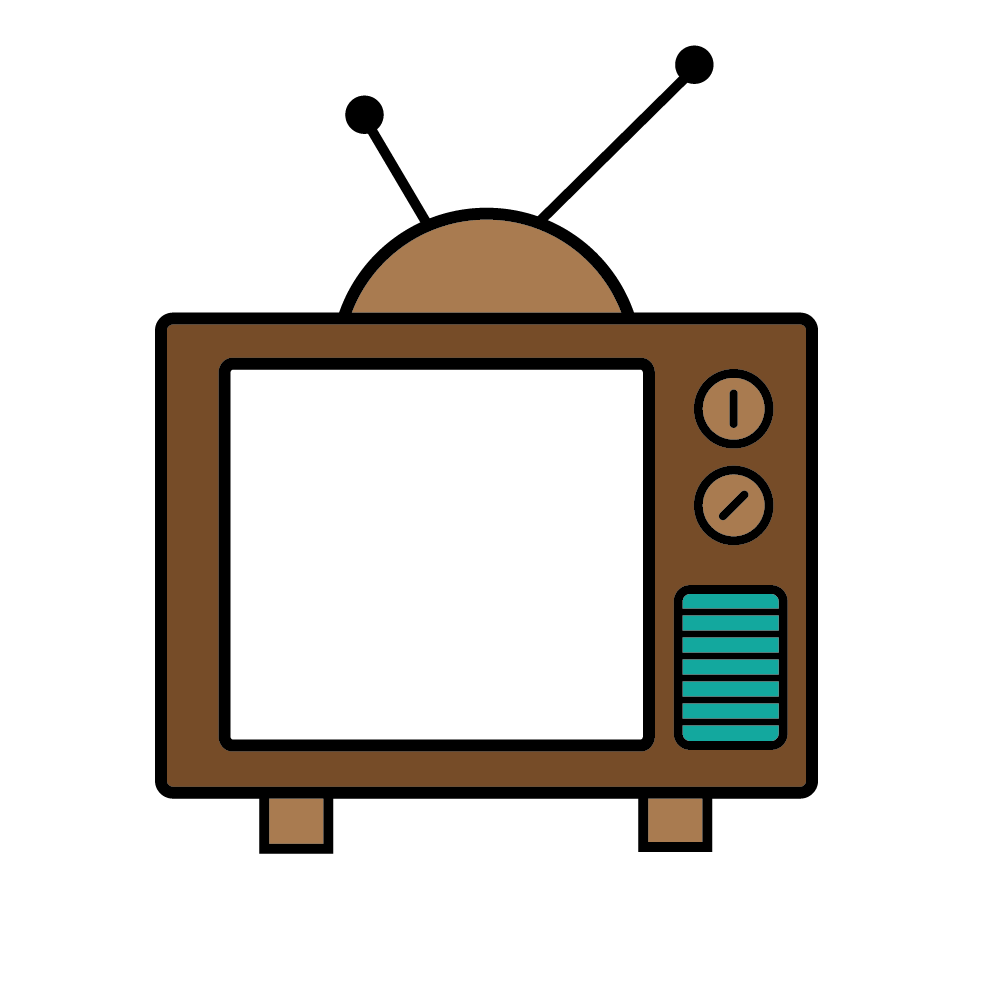
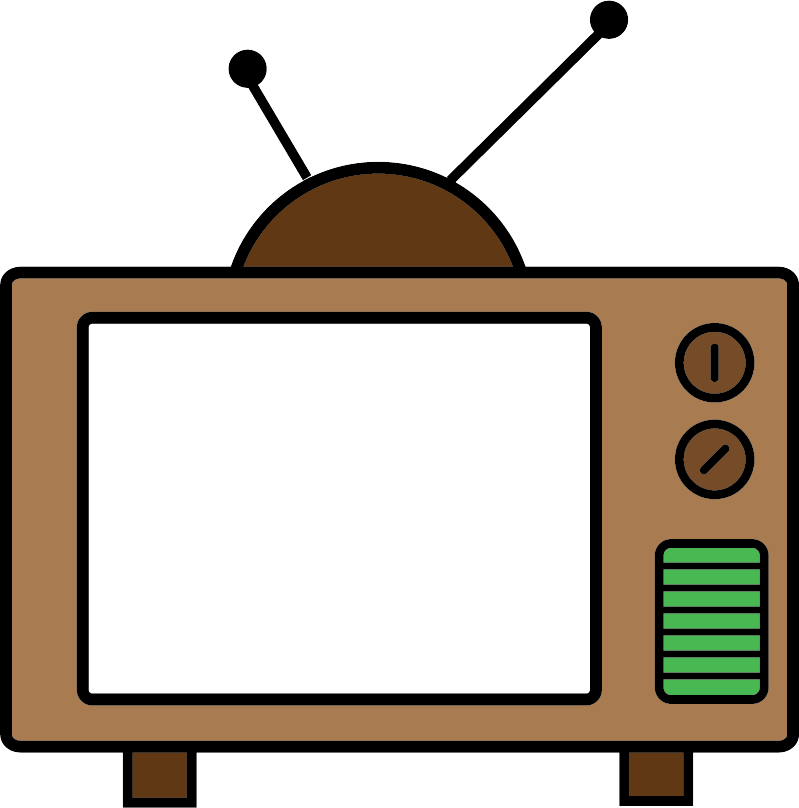
trampoline places and mascot hovers over

diff --git a/public/js/main.js b/public/js/main.js
@@ -5,7 +5,7 @@ $(document).ready(function() {
 			one = data[0].feed[i];
 			$('#gram1').append( "<img class='instagram-pic tilt_15' style='background-image: url(" + data[1].feed.data[i].images.thumbnail.url + ")' src='images/polaroid.png' />" );
 			gram1 = data[1].feed.data[i];
-			$('#two').append( "<div class='tweet'><p class='twit'>" + data[0].feed[i+1].text + "</p>" );
+			$('#two').append( "<div class='tweet2'><p class='twit'>" + data[0].feed[i+1].text + "</p>" );
 			two = data[0].feed[i+1];
 			$('#gram2').append( "<img class='instagram-pic tiltBack_15' style='background-image: url(" + data[1].feed.data[i+1].images.thumbnail.url + ")' src='images/polaroid.png' />" );
 			gram2 = data[1].feed.data[i+1];
@@ -15,13 +15,13 @@ $(document).ready(function() {
 			gram3 = data[1].feed.data[i+2];
 			$('#four').append( "<div class='tweet'><p class='twit'>" + data[0].feed[i+3].text + "</p>" );
 			four = data[0].feed[i+3];
-			$('#five').append( "<div class='tweet'><p class='twit'>" + data[0].feed[i+4].text + "</p>" );
+			$('#five').append( "<div class='tweet2'><p class='twit'>" + data[0].feed[i+4].text + "</p>" );
 			five = data[0].feed[i+=4];
 			$('#tube1').append( "<img class='tube tiltBack_7' style='background-image: url(" + data[2].feed.items[i].snippet.thumbnails.medium.url + ")' src='images/tv1.png' />" );
 			tube1 = data[2].feed.items[i];
 			$('#tube2').append( "<img class='tube tilt_15' style='background-image: url(" + data[2].feed.items[1].snippet.thumbnails.medium.url + ")' src='images/tv1.png' />" );
 			tube2 = data[2].feed.items[1];
-			$('#tube3').append( "<img class='tube tiltBack_7' style='background-image: url(" + data[2].feed.items[2].snippet.thumbnails.medium.url + ")' src='images/tv1.png' />" );
+			$('#tube3').append( "<img class='tube tiltBack_7' style='background-image: url(" + data[2].feed.items[2].snippet.thumbnails.medium.url + ")' src='images/tv2.png' />" );
 			tube3 = data[2].feed.items[2];
 
 		}
@@ -58,7 +58,7 @@ $('#search-button').click(function(e) {
 			tube1 = data[2].feed.items[i];
 			$('#tube2').append( "<img class='tube tilt_15' style='background-image: url(" + data[2].feed.items[1].snippet.thumbnails.medium.url + ")' src='images/tv1.png' />" );
 			tube2 = data[2].feed.items[1];
-			$('#tube3').append( "<img class='tube tiltBack_7' style='background-image: url(" + data[2].feed.items[2].snippet.thumbnails.medium.url + ")' src='images/tv1.png' />" );
+			$('#tube3').append( "<img class='tube tiltBack_7' style='background-image: url(" + data[2].feed.items[2].snippet.thumbnails.medium.url + ")' src='images/tv2.png' />" );
 			tube3 = data[2].feed.items[2];
 		}
 	});
@@ -72,6 +72,10 @@ $('#scene').parallax({
 	scalarY: 80,
 });
 
+//trampoline 
+$('#mascot').click(function() {
+	$('#click_me').show();
+});
 
 // Twitter modals
 $('#one').click(function (e) {

diff --git a/public/css/main.css b/public/css/main.css
@@ -1,5 +1,5 @@
 * {
-	font-family: tahoma;
+	font-family: 'Open Sans', sans-serif, tahoma;
 
 }
 
@@ -68,6 +68,10 @@ body {
 	color: orange;
 }
 
+#mascot {
+	z-index: 1000;
+}
+
 .feed {
 	background-color: #7fd0ff;
 	clear: both;
@@ -85,13 +89,20 @@ body {
 	height: 270px;
 }
 
+.tweet2 {
+	background-image: url('../images/cloud2.png'); 
+	background-size: cover;
+	width: 400px; 
+	height: 270px;
+}
+
 .twit {
 	position: relative;
 	text-align: center;;
 	padding-top: 27%;
 	padding-left: 22%;
 	height: 200px;
-	width: 250px;
+	width: 300px;
 }
 
 .frame {
@@ -130,6 +141,10 @@ body {
     transform: rotate(45deg);
 }
 
+#click_me {
+	display: none;
+}
+
 #scene { margin-top: 50px; width: 1000px; }
 
 #one { margin-top: 70px; margin-left: 10px; }
@@ -150,7 +165,7 @@ body {
 #gram3 { margin-top: 1700px; margin-left: 650px; }
 
 #tube3 { margin-top: 2100px; margin-left: 250px; }
-#six { margin-top: 2600px; margin-left: 360px; }
+#six { margin-top: 2600px; margin-left: 45%; }
 
 
 .tilt_7 {
